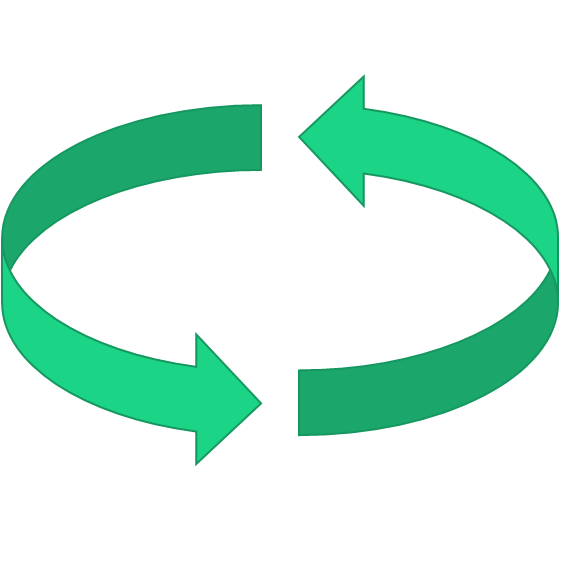
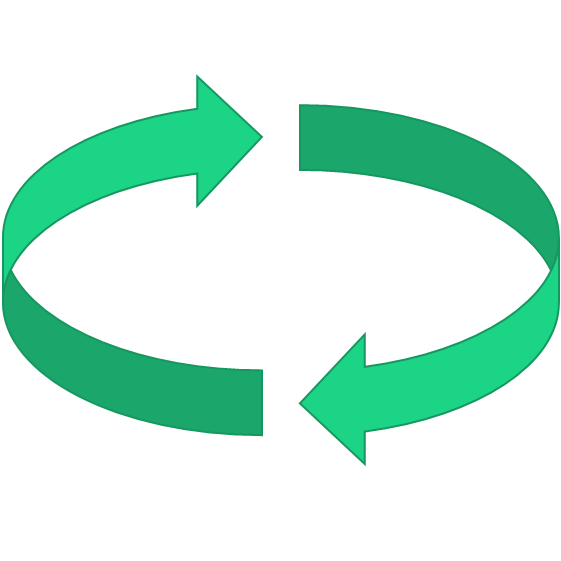
Fixed Message Scrolling and reverse order image

Changed region(s): [[0.5152, 0.1212, 1.0, 0.8485], [0.0, 0.1212, 0.4848, 0.8485]]

diff --git a/client_styles/playareaguistyles.css b/client_styles/playareaguistyles.css
@@ -261,6 +261,7 @@ body{
 }
 
 .logHeader{
+	color:orange;
 	display:block;
 	padding-top:10px;
 	padding-bottom:5px;
@@ -275,6 +276,7 @@ body{
 	font-size:small;
 	word-wrap:normal;
 	white-space:normal;
+	padding-bottom:30px;
 }
 
 #objArea{
@@ -286,10 +288,9 @@ body{
 #turnOrderIcon{
 	background-image: url("../ATS_Images/Game_Icons/spin_icon.png");
 	background-size:cover;
-	transform: scaleX(-1);
 }
 
-.flipped{transform: scaleX(1);}
+.flipped{transform: scaleX(-1);}
 
 #ownPlayerBoxMoney{
 	background-image : url("../ATS_Images/Card_Details/coin2.png");

diff --git a/server.js b/server.js
@@ -437,7 +437,7 @@ function processPlayerActions(){
 		initialHand();
 		newTurnCreditsMessage()
 		for (var j = 0; j<playerObjs.length; j++){
-			playerObjs[j].addGameLogEntry("Hand pass order reversed");
+			playerObjs[j].addGameLogEntry("<span color:orange><i>Hand pass order reversed<i></span>");
 		}
 	} else if(playerObjs[0].gameData.turnOrder){
 		var x = playerHandSwitchArray.shift();

diff --git a/ATS_Server/gameSetupScript.js b/ATS_Server/gameSetupScript.js
@@ -176,7 +176,7 @@ class playerObj{
 
 	addGameLogTurnHeader(){
 		if(this.gameData.round == 6 && this.gameData.turn == 4){
-			this.gameLog.push("Game Over");
+			this.gameLog.push("<span class='logHeader'>Game Over</span>");
 		} else {	
 			this.gameLog.push('<span class="logHeader">YEAR ' + this.gameData.turn + " : ROUND " + this.gameData.round + "</span>");	
 		}		

diff --git a/client_scripts/gameCoreScript.js b/client_scripts/gameCoreScript.js
@@ -629,4 +629,5 @@ function renderGameLog(logArray){
 		gameLogHTMLWrite = gameLogHTMLWrite + "<div class='gameLogEntry'>" + logArray[i] + "</div>"
 	}
 	gameLogHTML.innerHTML = gameLogHTMLWrite;
+	document.getElementById('infoArea').scrollTop = document.getElementById('infoArea').scrollHeight;
 }

diff --git a/index.html b/index.html
@@ -86,7 +86,7 @@
 <div id="rCModal"></div>
 <div id="infoArea" >
 	<p class="gameInfoTitle" id="gameLogTitle"></p>
-	<p id="gameLogText"></p>
+	<div id="gameLogText"></div>
 </div>
 <div id="objArea">
 	<p class="gameInfoTitle" id="gameObjTitle">Objectives</p>

diff --git a/client_styles/game_area_styles.css b/client_styles/game_area_styles.css
@@ -67,6 +67,7 @@
     text-indent: 30px;
 	margin-left:20px;
 	font-size:small;
+	padding-top:4px;
 }
 
 .gameLogEntry:first-line {
